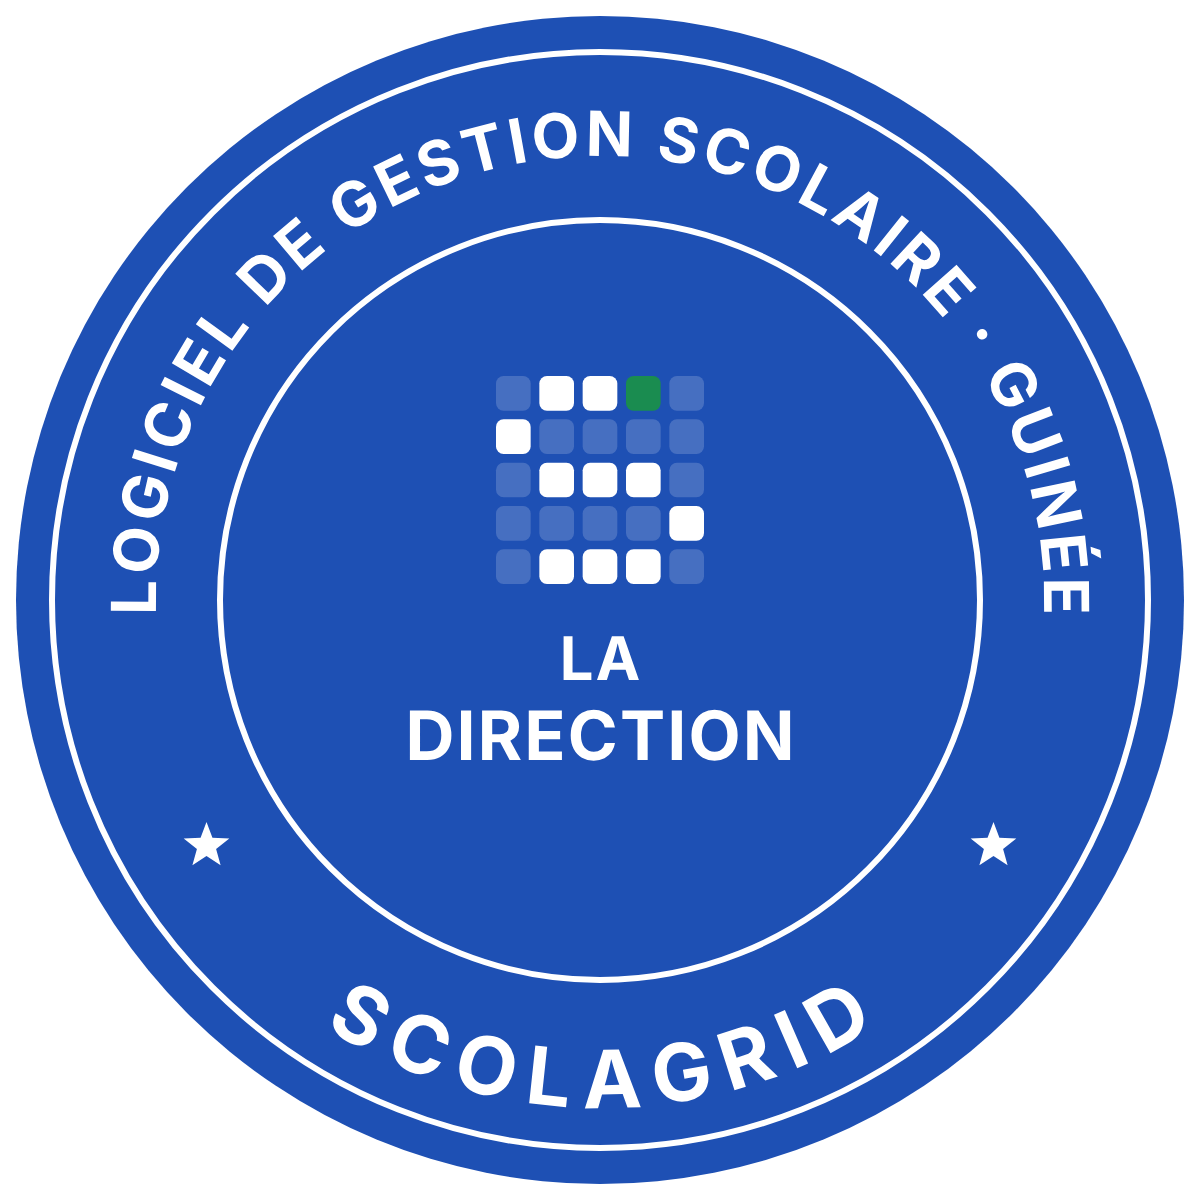
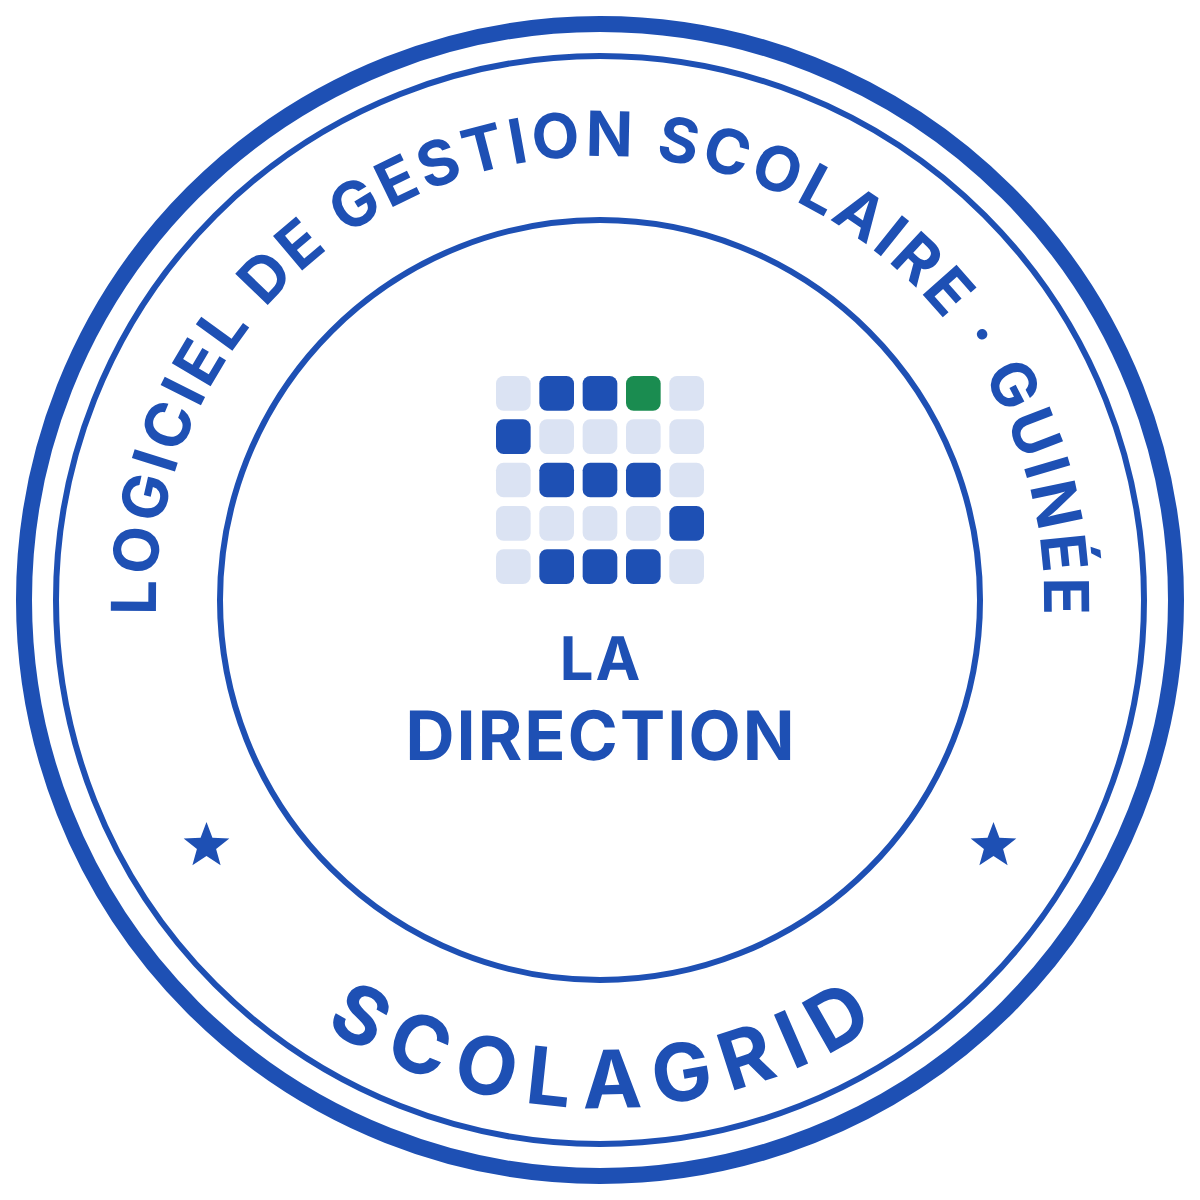
Marque : cachet sur fond blanc, textes et cercles bleus
Claude-Session: https://claude.ai/code/session_0122T6VeE6RqCURT9aMrpCiN

diff --git a/marque/outils/generer.py b/marque/outils/generer.py
@@ -141,22 +141,23 @@ print('ok')
 
 # 5. Cachet « plein », dans le style des cachets d'école guinéens : disque foncé,
 # inscription sur presque tout le tour, le nom en bas, deux étoiles, texte au centre.
-MARINE = '#1E50B4'
+BLEU_CACHET = '#1E50B4'
 def cachet_plein():
     c = 300
-    blanc = '#FFFFFF'
-    corps = [f'<circle cx="{c}" cy="{c}" r="292" fill="{MARINE}"/>',
-             f'<g fill="none" stroke="{blanc}">',
-             f'<circle cx="{c}" cy="{c}" r="274" stroke-width="3"/>',
+    bleu = BLEU_CACHET
+    corps = [f'<circle cx="{c}" cy="{c}" r="292" fill="#FFFFFF"/>',
+             f'<g fill="none" stroke="{bleu}">',
+             f'<circle cx="{c}" cy="{c}" r="288" stroke-width="8"/>',
+             f'<circle cx="{c}" cy="{c}" r="272" stroke-width="3"/>',
              f'<circle cx="{c}" cy="{c}" r="190" stroke-width="3"/>',
              '</g>',
-             f'<path d="{GRAS.arc("LOGICIEL DE GESTION SCOLAIRE · GUINÉE", 31, c, c, 222, 0, 2)}" fill="{blanc}"/>',
-             f'<path d="{GRAS.arc("SCOLAGRID", 40, c, c, 254, 180, 7, bas=True)}" fill="{blanc}"/>',
-             etoile(c + 232 * math.sin(math.radians(122)), c - 232 * math.cos(math.radians(122)), 12, blanc),
-             etoile(c + 232 * math.sin(math.radians(238)), c - 232 * math.cos(math.radians(238)), 12, blanc),
-             grille(c - 52, c - 112, 104, blanc, 'rgba(255,255,255,0.18)', VERT)]
+             f'<path d="{GRAS.arc("LOGICIEL DE GESTION SCOLAIRE · GUINÉE", 31, c, c, 222, 0, 2)}" fill="{bleu}"/>',
+             f'<path d="{GRAS.arc("SCOLAGRID", 40, c, c, 254, 180, 7, bas=True)}" fill="{bleu}"/>',
+             etoile(c + 232 * math.sin(math.radians(122)), c - 232 * math.cos(math.radians(122)), 12, bleu),
+             etoile(c + 232 * math.sin(math.radians(238)), c - 232 * math.cos(math.radians(238)), 12, bleu),
+             grille(c - 52, c - 112, 104, bleu, 'rgba(30,80,180,0.16)', VERT)]
     for i, (ligne, taille) in enumerate([('LA', 30), ('DIRECTION', 34)]):
         y = c + 40 + i * 40
-        corps.append(f'<path d="{GRAS.texte(ligne, taille, c - GRAS.largeur(ligne, taille, 1)/2, y, 1)}" fill="{blanc}"/>')
+        corps.append(f'<path d="{GRAS.texte(ligne, taille, c - GRAS.largeur(ligne, taille, 1)/2, y, 1)}" fill="{bleu}"/>')
     return svg(600, 600, '\n'.join(corps), 'Cachet ScolaGrid')
 ecrire('scolagrid-cachet-plein.svg', cachet_plein())

diff --git a/marque/LISEZMOI.md b/marque/LISEZMOI.md
@@ -5,7 +5,7 @@
 - `scolagrid-logo` : symbole + nom, pour fond clair ; `scolagrid-logo-fond-sombre` pour fond sombre.
 - `scolagrid-cachet` : cachet rond, encre bleue, net (documents numériques) ;
   `scolagrid-cachet-encre` : même cachet avec un effet d'encre (aperçus, présentations) ;
-  `scolagrid-cachet-plein` : cachet plein bleu, textes blancs, dans le style des
+  `scolagrid-cachet-plein` : cachet sur fond blanc, textes et cercles bleus, dans le style des
   cachets d'école guinéens (inscription sur le pourtour, nom en bas, deux étoiles).
 - `apercu.png` : planche de toutes les versions.
 
